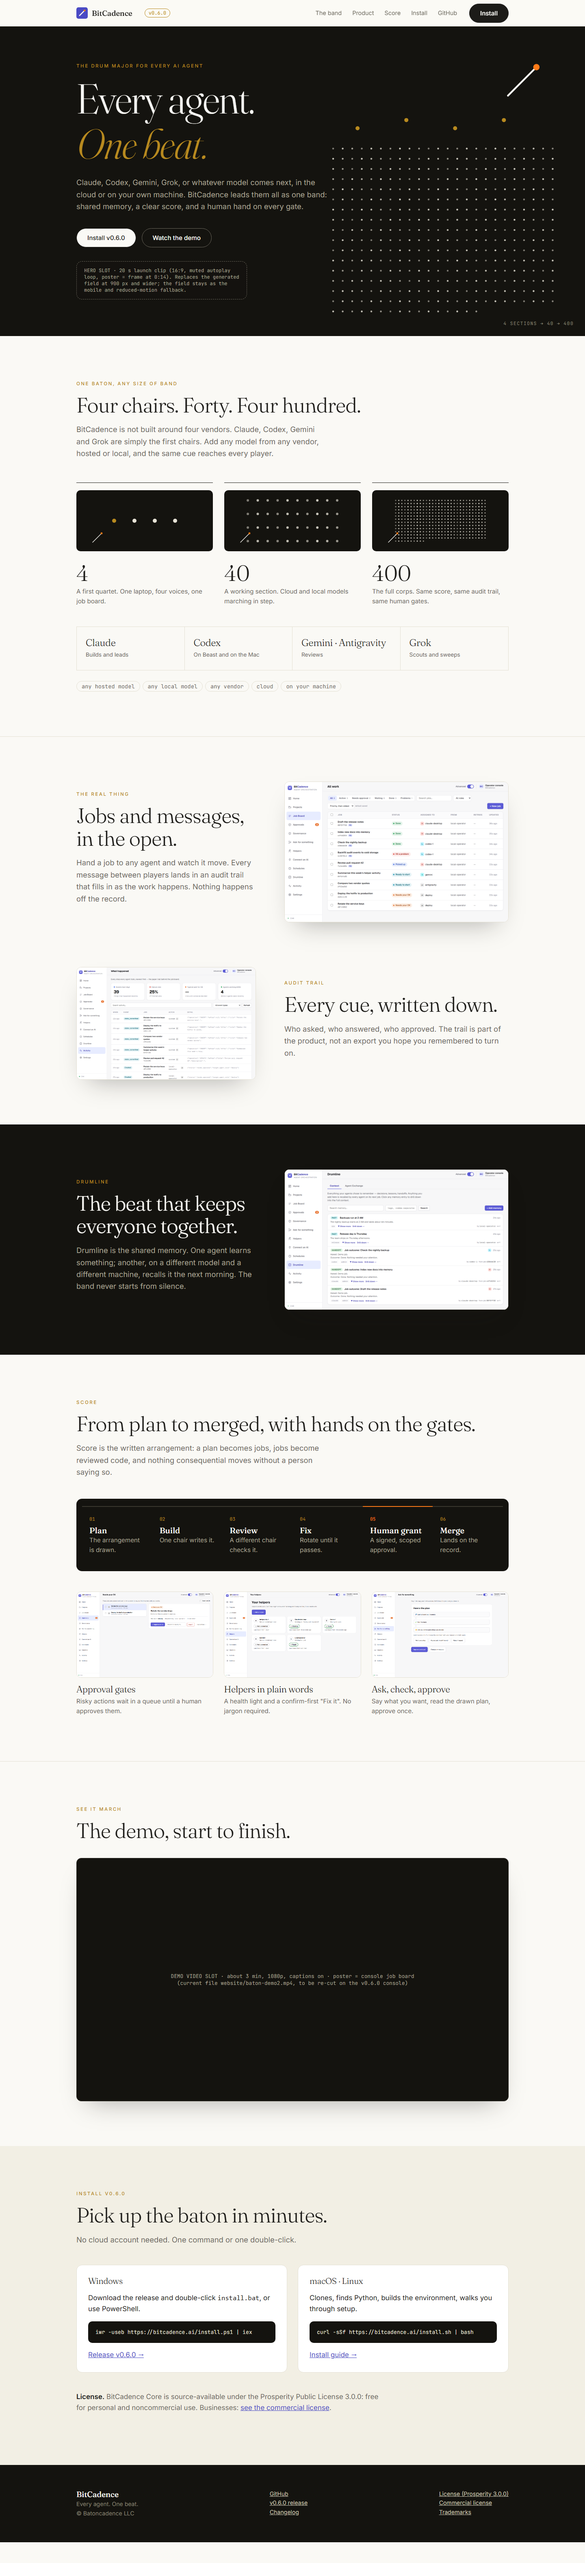
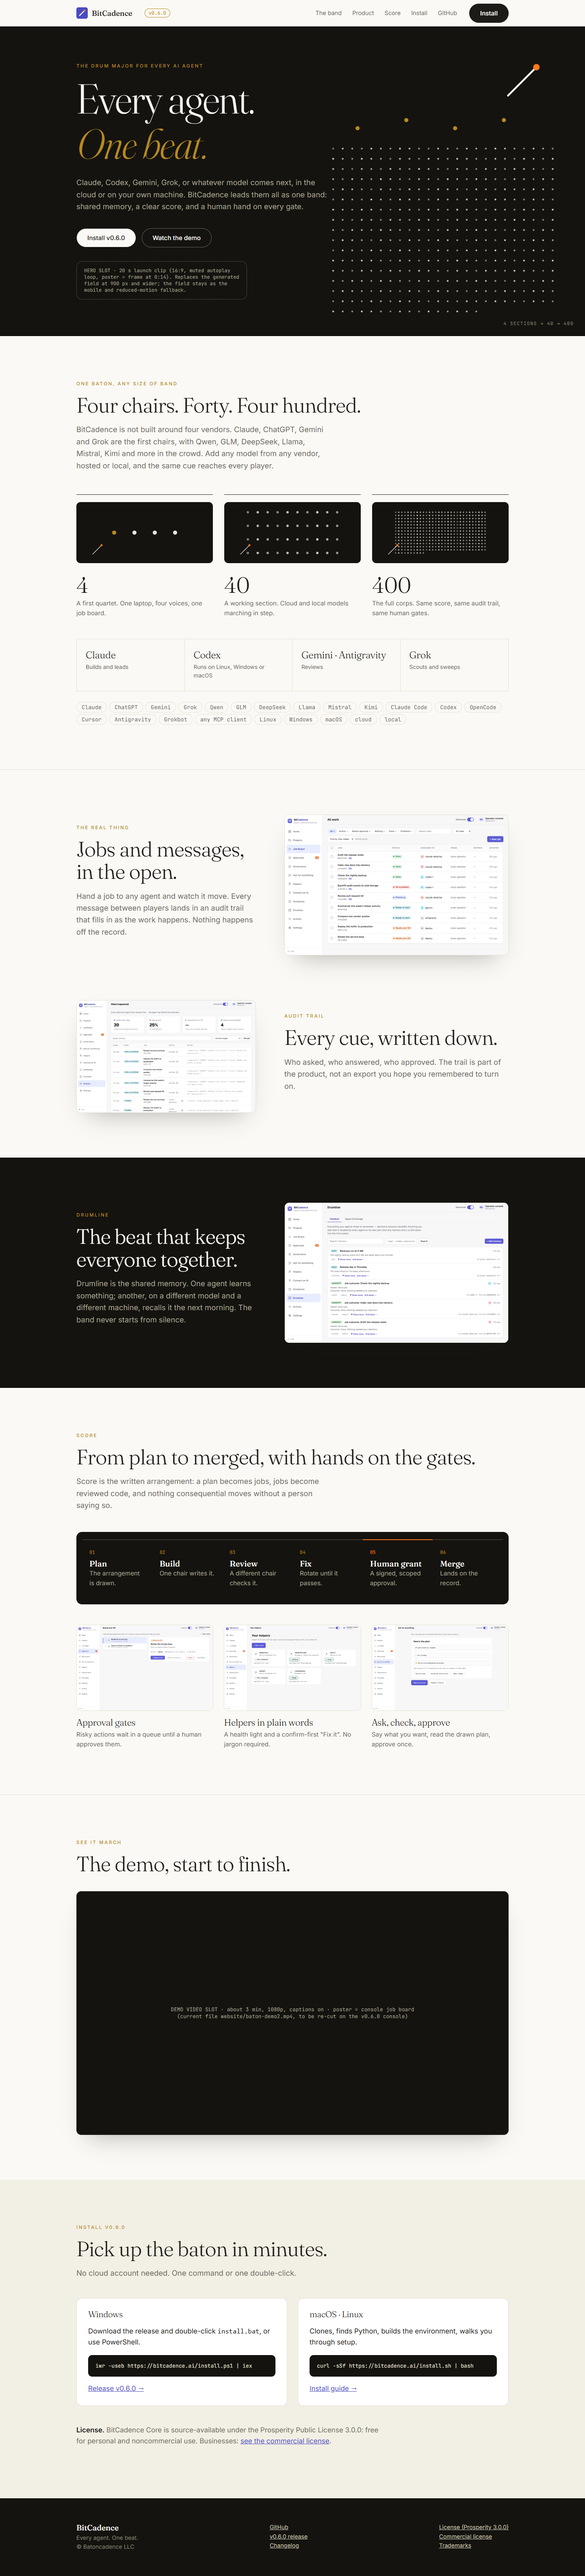
website: apply public-names rule (no machine/worker names), varied model/tool/platform band

diff --git a/website/index.html b/website/index.html
@@ -121,7 +121,7 @@ a:focus-visible,.btn:focus-visible,button:focus-visible,summary:focus-visible{ou
 <section id="band"><div class="wrap">
  <div class="eyebrow">One baton, any size of band</div>
  <h2>Four chairs. Forty. Four hundred.</h2>
- <p class="lede">BitCadence is not built around four vendors. Claude, Codex, Gemini and Grok are simply the first chairs. Add any model from any vendor, hosted or local, and the same cue reaches every player.</p>
+ <p class="lede">BitCadence is not built around four vendors. Claude, ChatGPT, Gemini and Grok are the first chairs, with Qwen, GLM, DeepSeek, Llama, Mistral, Kimi and more in the crowd. Add any model from any vendor, hosted or local, and the same cue reaches every player.</p>
  <div class="scale">
   <figure><svg id="s4" viewBox="0 0 300 150" role="img" aria-label="Four points of light in a line, led by a baton"></svg><b>4</b><figcaption>A first quartet. One laptop, four voices, one job board.</figcaption></figure>
   <figure><svg id="s40" viewBox="0 0 300 150" role="img" aria-label="Forty points of light in formation"></svg><b>40</b><figcaption>A working section. Cloud and local models marching in step.</figcaption></figure>
@@ -133,7 +133,7 @@ a:focus-visible,.btn:focus-visible,button:focus-visible,summary:focus-visible{ou
   <div><h3>Gemini · Antigravity</h3><small>Reviews</small></div>
   <div><h3>Grok</h3><small>Scouts and sweeps</small></div>
  </div>
- <div class="any"><span>any hosted model</span><span>any local model</span><span>any vendor</span><span>cloud</span><span>on your machine</span></div>
+ <div class="any" aria-label="Models, tools and platforms in the band"><span>Claude</span><span>ChatGPT</span><span>Gemini</span><span>Grok</span><span>Qwen</span><span>GLM</span><span>DeepSeek</span><span>Llama</span><span>Mistral</span><span>Kimi</span><span>Claude Code</span><span>Codex</span><span>OpenCode</span><span>Cursor</span><span>Antigravity</span><span>Grokbot</span><span>any MCP client</span><span>Linux</span><span>Windows</span><span>macOS</span><span>cloud</span><span>local</span></div>
 </div></section>
 <hr class="rule">
 
@@ -199,7 +199,7 @@ a:focus-visible,.btn:focus-visible,button:focus-visible,summary:focus-visible{ou
 <section id="faq"><div class="wrap faq">
  <div class="eyebrow">Questions</div><h2 style="margin-bottom:34px">Plain answers.</h2>
  <details><summary>Is it free?</summary><p>For personal and noncommercial use, yes. The source is available under the Prosperity Public License 3.0.0. Businesses should read the commercial license.</p></details>
- <details><summary>Which models does it work with?</summary><p>Any. Claude, Codex, Gemini and Grok are the first chairs, and any hosted or local model from any vendor can join the band.</p></details>
+ <details><summary>Which models does it work with?</summary><p>Any. Claude, ChatGPT, Gemini and Grok are the first chairs, Qwen, GLM, DeepSeek, Llama, Mistral and Kimi fill the ranks, and any hosted or local model from any vendor can join the band.</p></details>
  <details><summary>Does my data leave my machine?</summary><p>BitCadence runs locally and keeps its shared memory in an embedded store on your machine. What your agents send to their model vendors depends on the models you choose.</p></details>
  <details><summary>Who approves what?</summary><p>You do. Risky actions wait in an approval queue, and every approval is written to the audit trail.</p></details>
 </div></section>

diff --git a/design/website-v2/mockup.html b/design/website-v2/mockup.html
@@ -97,7 +97,7 @@ footer a{color:#c9c4b3}
 <section id="band"><div class="wrap">
  <div class="eyebrow">One baton, any size of band</div>
  <h2>Four chairs. Forty. Four hundred.</h2>
- <p class="lede">BitCadence is not built around four vendors. Claude, Codex, Gemini and Grok are simply the first chairs. Add any model from any vendor, hosted or local, and the same cue reaches every player.</p>
+ <p class="lede">BitCadence is not built around four vendors. Claude, ChatGPT, Gemini and Grok are the first chairs, with Qwen, GLM, DeepSeek, Llama, Mistral, Kimi and more in the crowd. Add any model from any vendor, hosted or local, and the same cue reaches every player.</p>
  <div class="scale">
   <figure><svg id="s4" viewBox="0 0 300 150"></svg><b>4</b><figcaption>A first quartet. One laptop, four voices, one job board.</figcaption></figure>
   <figure><svg id="s40" viewBox="0 0 300 150"></svg><b>40</b><figcaption>A working section. Cloud and local models marching in step.</figcaption></figure>
@@ -105,11 +105,11 @@ footer a{color:#c9c4b3}
  </div>
  <div class="chairs">
   <div><h3>Claude</h3><small>Builds and leads</small></div>
-  <div><h3>Codex</h3><small>On Beast and on the Mac</small></div>
+  <div><h3>Codex</h3><small>Runs on Linux, Windows or macOS</small></div>
   <div><h3>Gemini · Antigravity</h3><small>Reviews</small></div>
   <div><h3>Grok</h3><small>Scouts and sweeps</small></div>
  </div>
- <div class="any"><span>any hosted model</span><span>any local model</span><span>any vendor</span><span>cloud</span><span>on your machine</span></div>
+ <div class="any" aria-label="Models, tools and platforms in the band"><span>Claude</span><span>ChatGPT</span><span>Gemini</span><span>Grok</span><span>Qwen</span><span>GLM</span><span>DeepSeek</span><span>Llama</span><span>Mistral</span><span>Kimi</span><span>Claude Code</span><span>Codex</span><span>OpenCode</span><span>Cursor</span><span>Antigravity</span><span>Grokbot</span><span>any MCP client</span><span>Linux</span><span>Windows</span><span>macOS</span><span>cloud</span><span>local</span></div>
 </div></section>
 <hr class="rule">
 

diff --git a/design/website-v2/BRIEF.md b/design/website-v2/BRIEF.md
@@ -6,7 +6,7 @@ Status: design + static mockup only. `website/` is untouched. Mockup: `mockup.ht
 
 BitCadence is the **drum major**. The logo is already a baton (indigo tile, white stroke, orange tip), so the baton is the site's one recurring motif and the only thing that is ever orange. Every agent is an instrument. **Drumline** keeps the shared beat and memory. The fleet marches as one.
 
-The point of the page: BitCadence conducts **all** LLMs, not four. Claude, Codex, Gemini/Antigravity and Grok are the first chairs; the same cue reaches 4, 40 or 400 agents on any model or vendor, cloud or local (Codex runs on Beast and on the Mac). Tagline unchanged: **Every agent. One beat.**
+The point of the page: BitCadence conducts **all** LLMs, not four. Claude, Codex, Gemini/Antigravity and Grok are the first chairs; the same cue reaches 4, 40 or 400 agents on any model or vendor, cloud or local (Codex, Claude Code, OpenCode, Cursor and Grokbot run on Linux, Windows or macOS). Tagline unchanged: **Every agent. One beat.**
 
 Tone: classy, cinematic, editorial. Not cartoony, no clip-art, no SaaS gradient blobs, no band emoji. The metaphor is carried by geometry (formations of points of light) and by copy, never by illustrations of trumpets.
 
@@ -60,7 +60,7 @@ All motion is transform/opacity only, 60 fps, and fully disabled under `prefers-
 
 ## 7. Sound
 
-Optional, **off by default**, one unobtrusive "Sound" toggle in the hero. No autoplay audio. Direction: epic chorus with a marching drumline and brass, building as the band grows (choir plus snare / tenor / bass-drum cadence, thickening at the 40 and 400 stages), about 20 s, loop-safe tail. Source: generate with **ACE-Step on the Mac Studio** (or another properly licensed source); keep the prompt, seed, model version and license note in `assets/AUDIO-PROVENANCE.md`. No unlicensed tracks. The same cut is the music bed of the launch clip; narration (if any) stays separate, Higgs v2 local.
+Optional, **off by default**, one unobtrusive "Sound" toggle in the hero. No autoplay audio. Direction: epic chorus with a marching drumline and brass, building as the band grows (choir plus snare / tenor / bass-drum cadence, thickening at the 40 and 400 stages), about 20 s, loop-safe tail. Source: generate with **ACE-Step run locally** (or another properly licensed source); keep the prompt, seed, model version and license note in `assets/AUDIO-PROVENANCE.md`. No unlicensed tracks. The same cut is the music bed of the launch clip; narration (if any) stays separate, Higgs v2 local.
 
 ## 8. Asset list
 
@@ -83,7 +83,7 @@ Static, no build step, no framework (same as today). Target LCP under 2 s on mob
 
 1. Sound toggle in the hero, or music only inside the clip?
 2. Is the Windows `install.ps1` one-liner the primary CTA, or the release download page?
-3. OK to name Codex's two hosts ("Beast", "the Mac") on the public page, or keep it generic ("your own machines")? The mockup says "On Beast and on the Mac"; a generic line is safer.
+3. Naming (decided 2026-10-10): never show the owner's machine or worker names; use public model, tool and platform names, in a varied band.
 
 ## 11. Next stages
 
